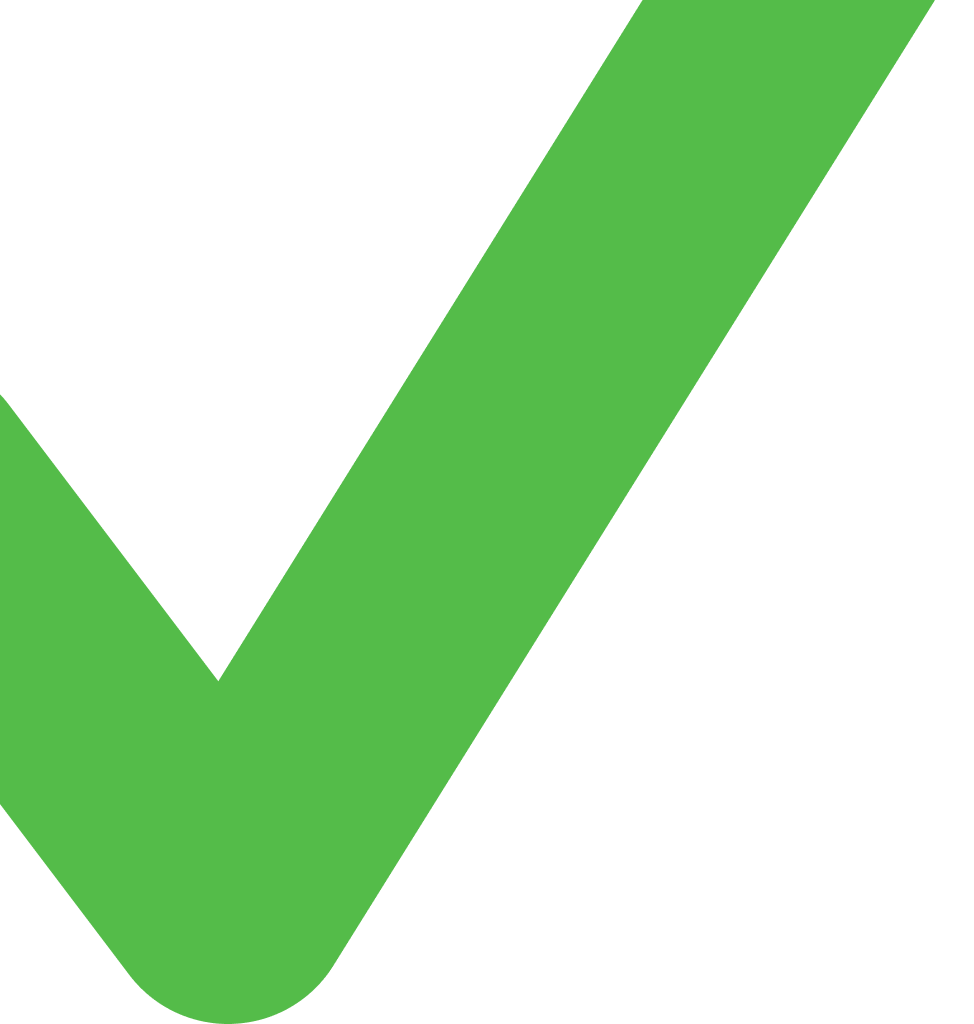
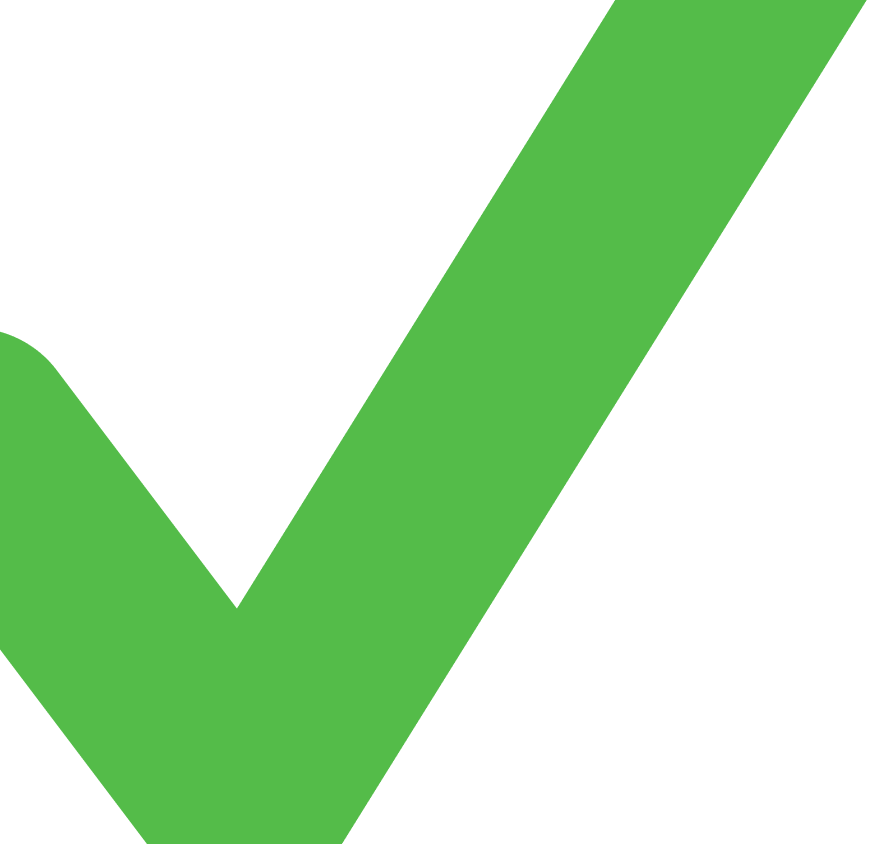
ajustes de proporção

diff --git a/style.css b/style.css
@@ -4,6 +4,7 @@ body {
     margin: 0;
     padding: 0;
     height: 100%;
+    /*overflow-y: hidden;*/    /*remove o scroll vertical da página */
 }
 
 header {
@@ -23,19 +24,19 @@ header {
 
 .logo {
     margin: 0 auto;
-    width: 80px;
-    height: 80px;
+    width: 76px;
+    height: 76px;
 }
 
 .vetor-confirmacao {
     position: absolute;
-    width: 974px;
-    height: 1024px;
+    width: 887px;
+    height: 844px;
 }
 
 .vetor-pessoas {
-    width: 451px;
-    height: 984px;
+    width: 663px;
+    height: 810x;
     display: flex;
     position: relative;
     justify-items: end;
@@ -43,21 +44,20 @@ header {
 }
 
 .box-confirmacao {
-    top: 198px;
-    left: 129px;
+    top: 165px;
+    left: 80px;
     position: relative;
-    width: 760px;
-    height: 315px;
+    width: 530px;
+    height: 236px;
     background-color: #ece8e8;
     border-radius: 77px;
-    border: 1px solid;
-    padding-left: 64px;
+    padding: 60px;
 }
 
 .bem-vindo {
     font-weight: 700;
     color: #008037;
-    font-size: 39px;
+    font-size: 34px;
     line-height: normal;
 }
 
@@ -68,8 +68,18 @@ header {
     line-height: normal;
 }
 
-footer {
+.return {
     position: relative;
+    display: flex;
+    width: 35px;
+    height: 33px;
+    display: flex;
+    left: 25px;
+    top: 400px;
+}
+
+footer {
+    position: static;
     bottom: 0;
     background-color: #54bc49;
     height: 40px;
@@ -77,12 +87,6 @@ footer {
     display: flex;
     justify-content: center;
     align-items: center;
-}
-
-.rodape {
-    position: relative;
-    display: flex;
-    bottom: 0;
 }
 
 .text-footer {

diff --git a/index.html b/index.html
@@ -23,12 +23,11 @@
             <img src="img/linha.png" alt="vetor de uma linha">
             <p class="mensagem-confirmacao">Cadastro realizado com sucesso! Aguarde o nosso contato.</p>
         </div>
+        <img class="return" src="img/return.png" alt="seta para voltar">
     </main>
-
-    <footer>
-        <div class="rodape">
-            <p class="text-footer">© 2023 | Viverde Casa - Todos os direitos reservados.</p>
-        </div>
+    
+    <footer>  
+        <p class="text-footer">© 2023 | Viverde Casa - Todos os direitos reservados.</p>
     </footer>
 
 </body>
